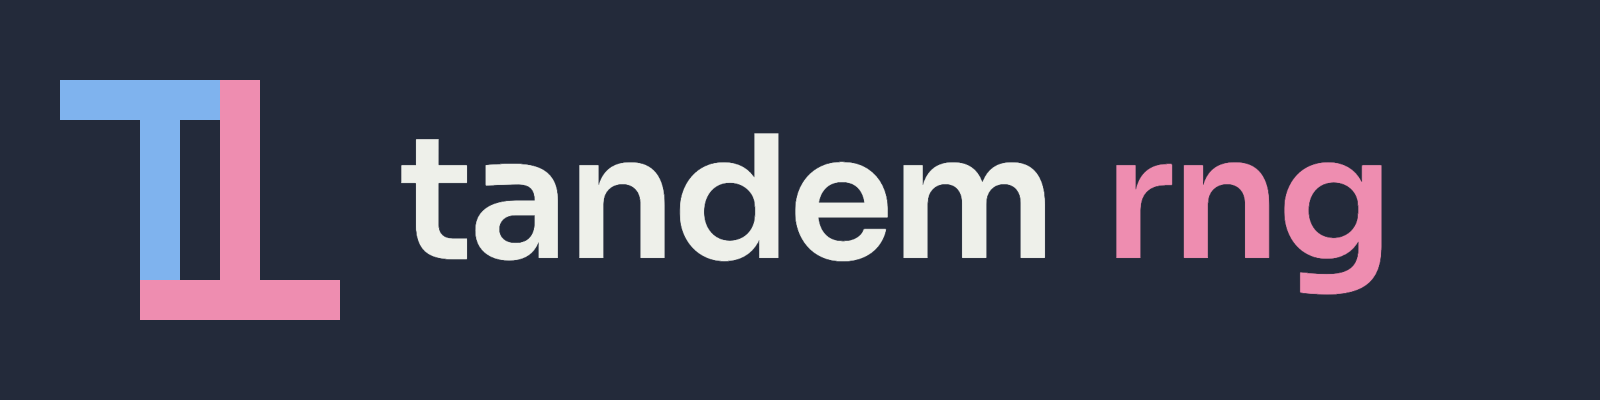
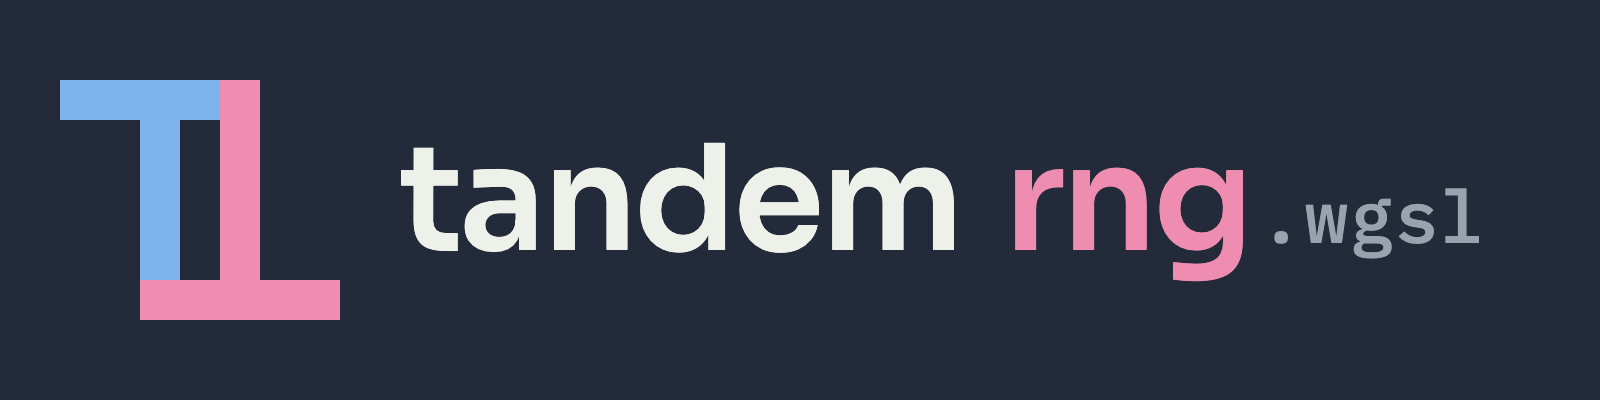
Add the repo's own lockup to the README

Changed region(s): [[0.25, 0.33, 0.9375, 0.75]]

diff --git a/README.md b/README.md
@@ -1,4 +1,4 @@
-<p align="center"><img src="assets/lockup.png" width="560" alt="tandem rng"></p>
+<p align="center"><img src="assets/lockup.png" width="560" alt="tandem rng .wgsl"></p>
 
 # tandem-webgpu
 
